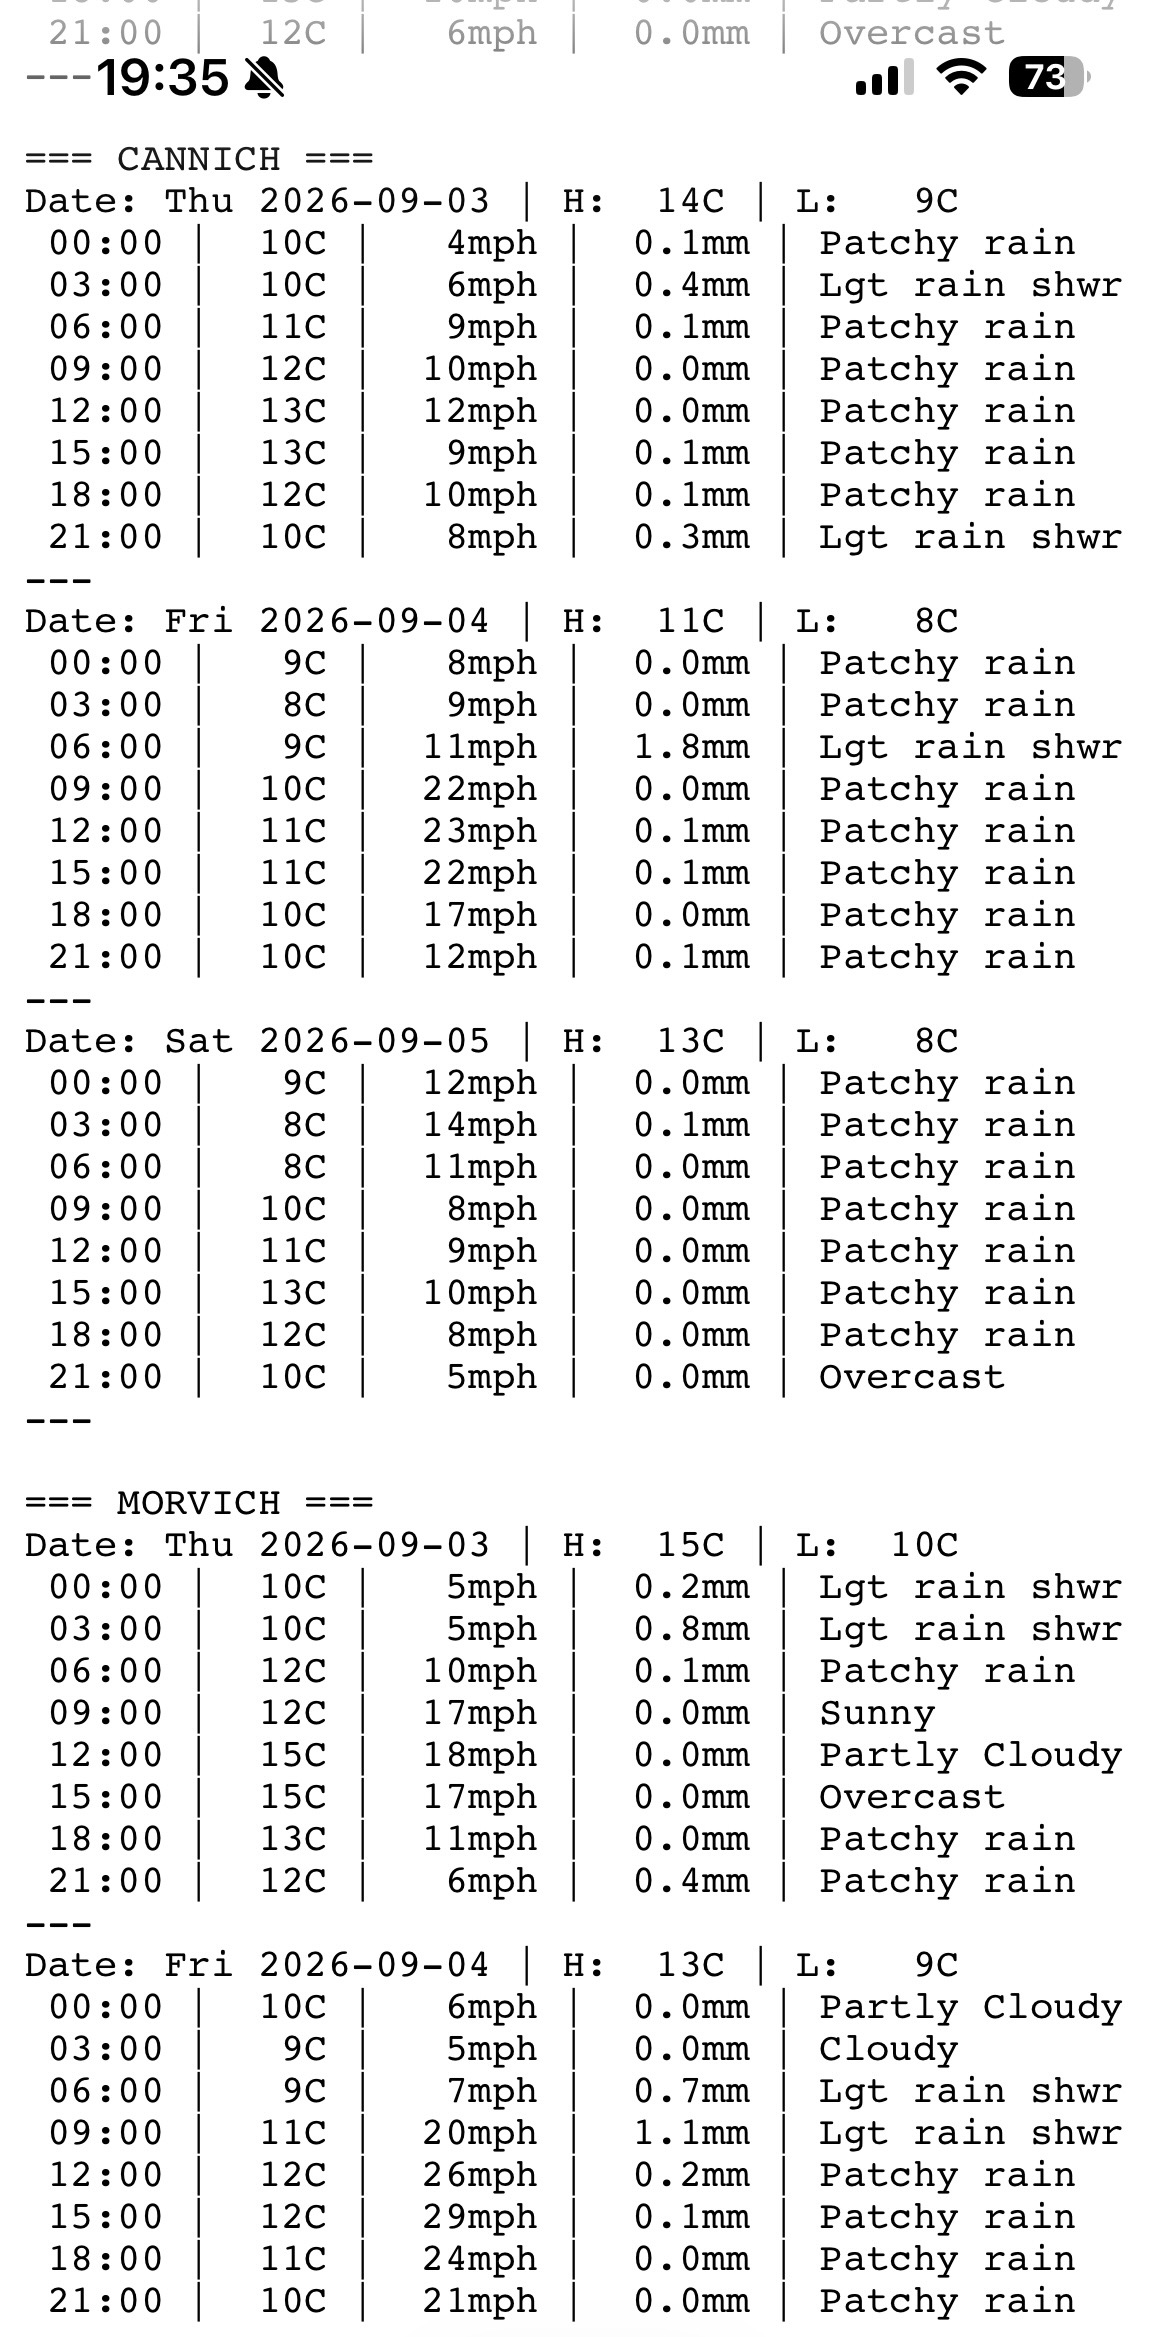
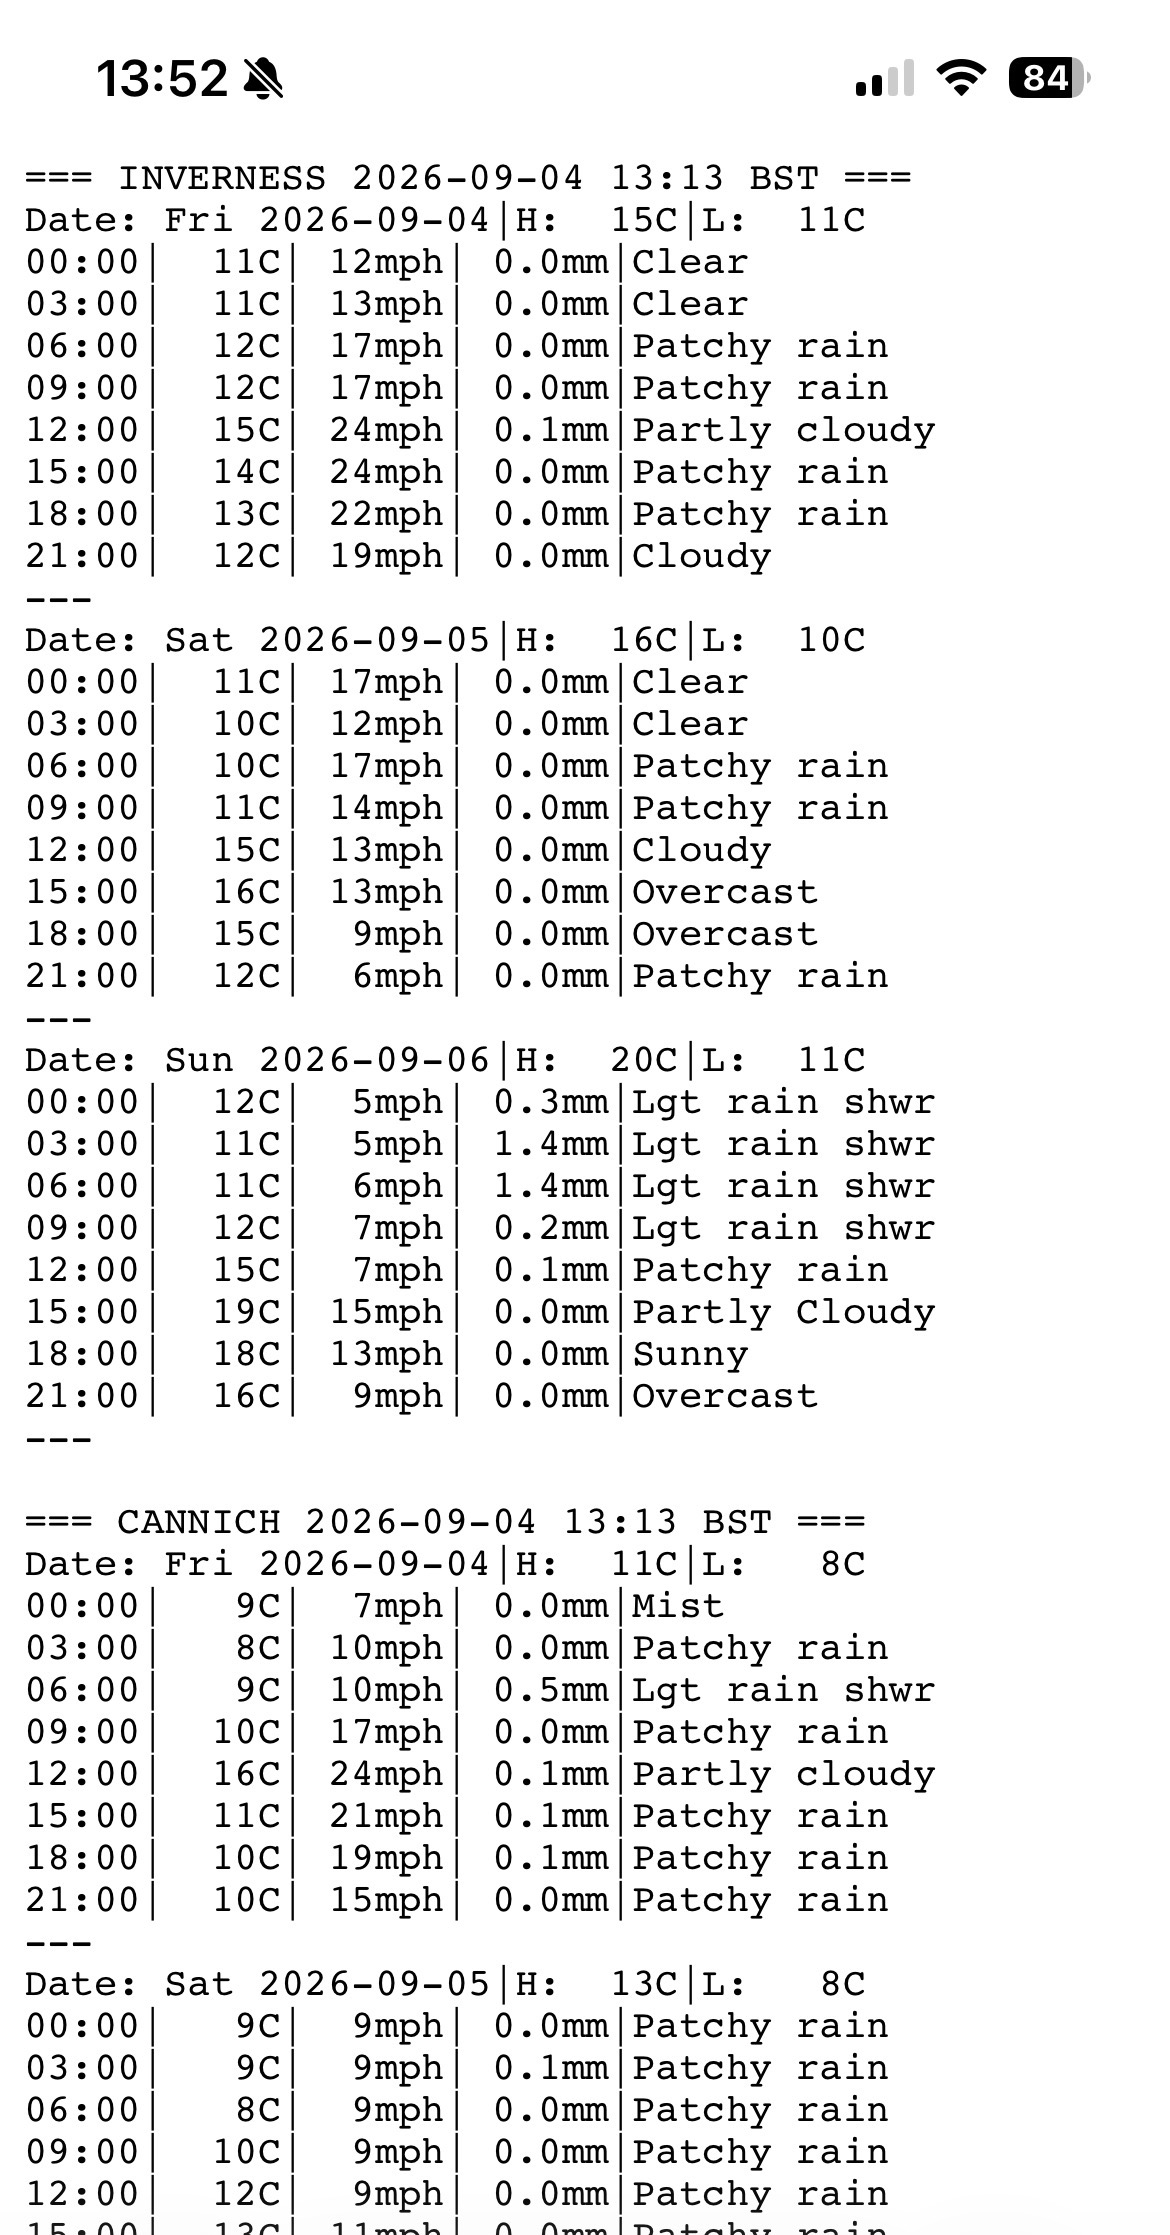
add changes to readme + screenshot

diff --git a/README.md b/README.md
@@ -12,9 +12,23 @@ This thing is about 40-50% Gemini. They are 2 simple bash scripts and AI tools w
 
 ## Features
 
-- **Text Forecast Generator (`weather-forecast.sh`)**: Compresses dense hourly weather data into compact, readable plain text optimized for small screens. Served statically via Nginx.
-- **Proactive SMS Alerts (`weather-alert.sh`)**: Checks upcoming weather against custom threshold triggers (default is wind speed > 25mph, temperature drops < 5°C, or snow/thunder hazards) and sends concise SMS alerts using twilio.
+- **Text Forecast Generator (`weather-forecast.sh`)**: Compresses hourly weather data into plain text. Served statically via Nginx.
+- **Proactive SMS Alerts (`weather-alert.sh`)**: Checks upcoming weather against threshold triggers (default: wind speed > 25mph, temperature drops < 5°C, or snow/thunder hazards) and sends SMS alerts using twilio.
 - **Automatic**: Includes unit and timer files for hourly text updating and multi-time daily weather hazard scans.
+
+## Recent Updates
+
+**weather-alert.sh**
+- Checks 3-day forecasts for wind, temperature, and weather hazards.
+- Prevents duplicate SMS alerts across scheduled runs and network outages.
+- Verifies successful Twilio delivery before updating internal state.
+- Improves data parsing stability and error handling.
+
+**weather-forecast.sh**
+- Caches forecasts per location to maintain data during API failures.
+- Writes files atomically to prevent web clients from loading incomplete text.
+- Optimizes layout for narrow screens (max 41 characters) and fixes formatting for negative temperatures.
+- Consolidates text formatting into direct JSON parsing for better reliability.
 
 ## Screenshots
 
@@ -35,23 +49,29 @@ This thing is about 40-50% Gemini. They are 2 simple bash scripts and AI tools w
 
 1. **Install Scripts:**
 
-    sudo cp weather-forecast.sh weather-alert.sh /usr/local/bin/
-    sudo chmod +x /usr/local/bin/weather-forecast.sh /usr/local/bin/weather-alert.sh
+```bash
+sudo cp weather-forecast.sh weather-alert.sh /usr/local/bin/
+sudo chmod +x /usr/local/bin/weather-forecast.sh /usr/local/bin/weather-alert.sh
+```
 
 2. **Configure Credentials:**
 
-    sudo cp weather-alert.conf.example /etc/weather-alert.conf
-    sudo chmod 600 /etc/weather-alert.conf
-    sudo nano /etc/weather-alert.conf
+```bash
+sudo cp weather-alert.conf.example /etc/weather-alert.conf
+sudo chmod 600 /etc/weather-alert.conf
+sudo nano /etc/weather-alert.conf
+```
 
 3. **Install Systemd Units:**
 
-    sudo cp *.service *.timer /etc/systemd/system/
-    sudo systemctl daemon-reload
-    sudo systemctl enable --now weather-forecast.timer weather-alert.timer
+```bash
+sudo cp *.service *.timer /etc/systemd/system/
+sudo systemctl daemon-reload
+sudo systemctl enable --now weather-forecast.timer weather-alert.timer
+```
 
 4. **Nginx Configuration:**
-   Add the location block from `nginx-weather.conf.example` to your Nginx server configuration to serve `/weather` as `text/plain` with caching disabled.
+Add the location block from `nginx-weather.conf.example` to your Nginx server configuration to serve `/weather` as `text/plain` with caching disabled.
 
 ## License
 
